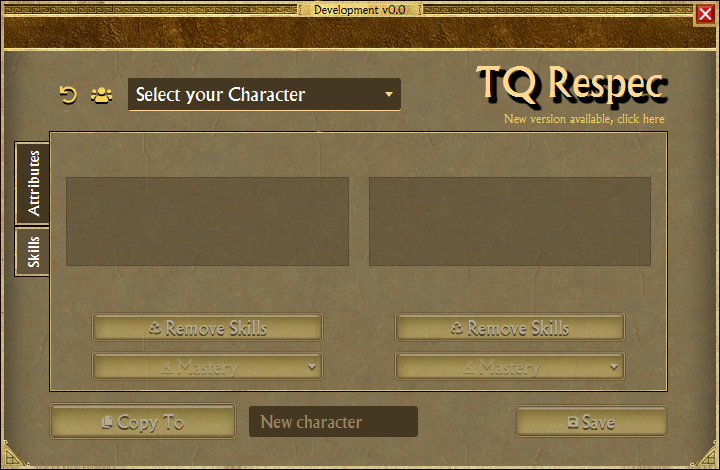
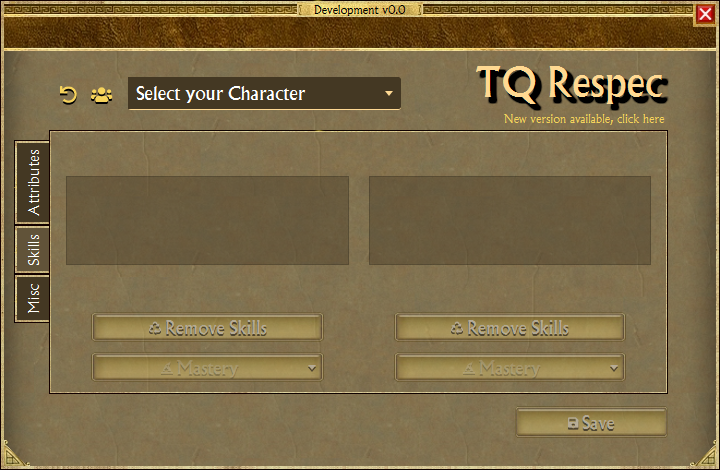
Version 0.10.0

diff --git a/CHANGELOG.md b/CHANGELOG.md
@@ -1,4 +1,24 @@
 # Changelog
+## [0.10.0] - 2021-05-22
+### Added
+- Support for respec attributes of mobile save games (TQ Legendary Edition for Android)
+- Support for skills points reclaim of mobile save games (TQ Legendary Edition for Android)
+- Support for copy and convert mobile savegames to Windows (TQ Legendary Edition for Android)
+- Support for copy and convert Windows savegames to mobile (TQ Legendary Edition for Android)
+- Savedata directory to work on savegames outside 'My Games' (Android or Windows)
+- Backup feature (takes a full backup of the selected character)
+- Export Player.chr to JSON (for debugging or analysis)
+
+### Changed
+- Gamedata directory is now considered before game installation. Files placed there will override detected game.
+- Always monitor TQ.exe to disable save.
+- Completely refactor binary file patching system to simplify and improve extendability
+- Improve parsing system and data type detection
+- UI changed to accomodate new mobile features
+
+### Fixed
+- Minor UI bug fixed
+
 ## [0.9.2] - 2021-04-30
 ### Added
 - Copy character's storage when copying character ([#1](https://github.com/epinter/tqrespec/issues/1))

diff --git a/README.md b/README.md
@@ -28,7 +28,8 @@ Keep in mind that this software make modifications to your save game (more speci
 
 ![TQRespec Screenshot 1](assets/screenshot_attributes.png "Attributes")
 ![TQRespec Screenshot 2](assets/screenshot_skills.png "Skills")
-![TQRespec Screenshot 3](assets/screenshot_characters.png "Characters")
+![TQRespec Screenshot 3](assets/screenshot_misc.png "Misc")
+![TQRespec Screenshot 4](assets/screenshot_characters.png "Characters")
 
 #### ***Running without the game installed***
 
